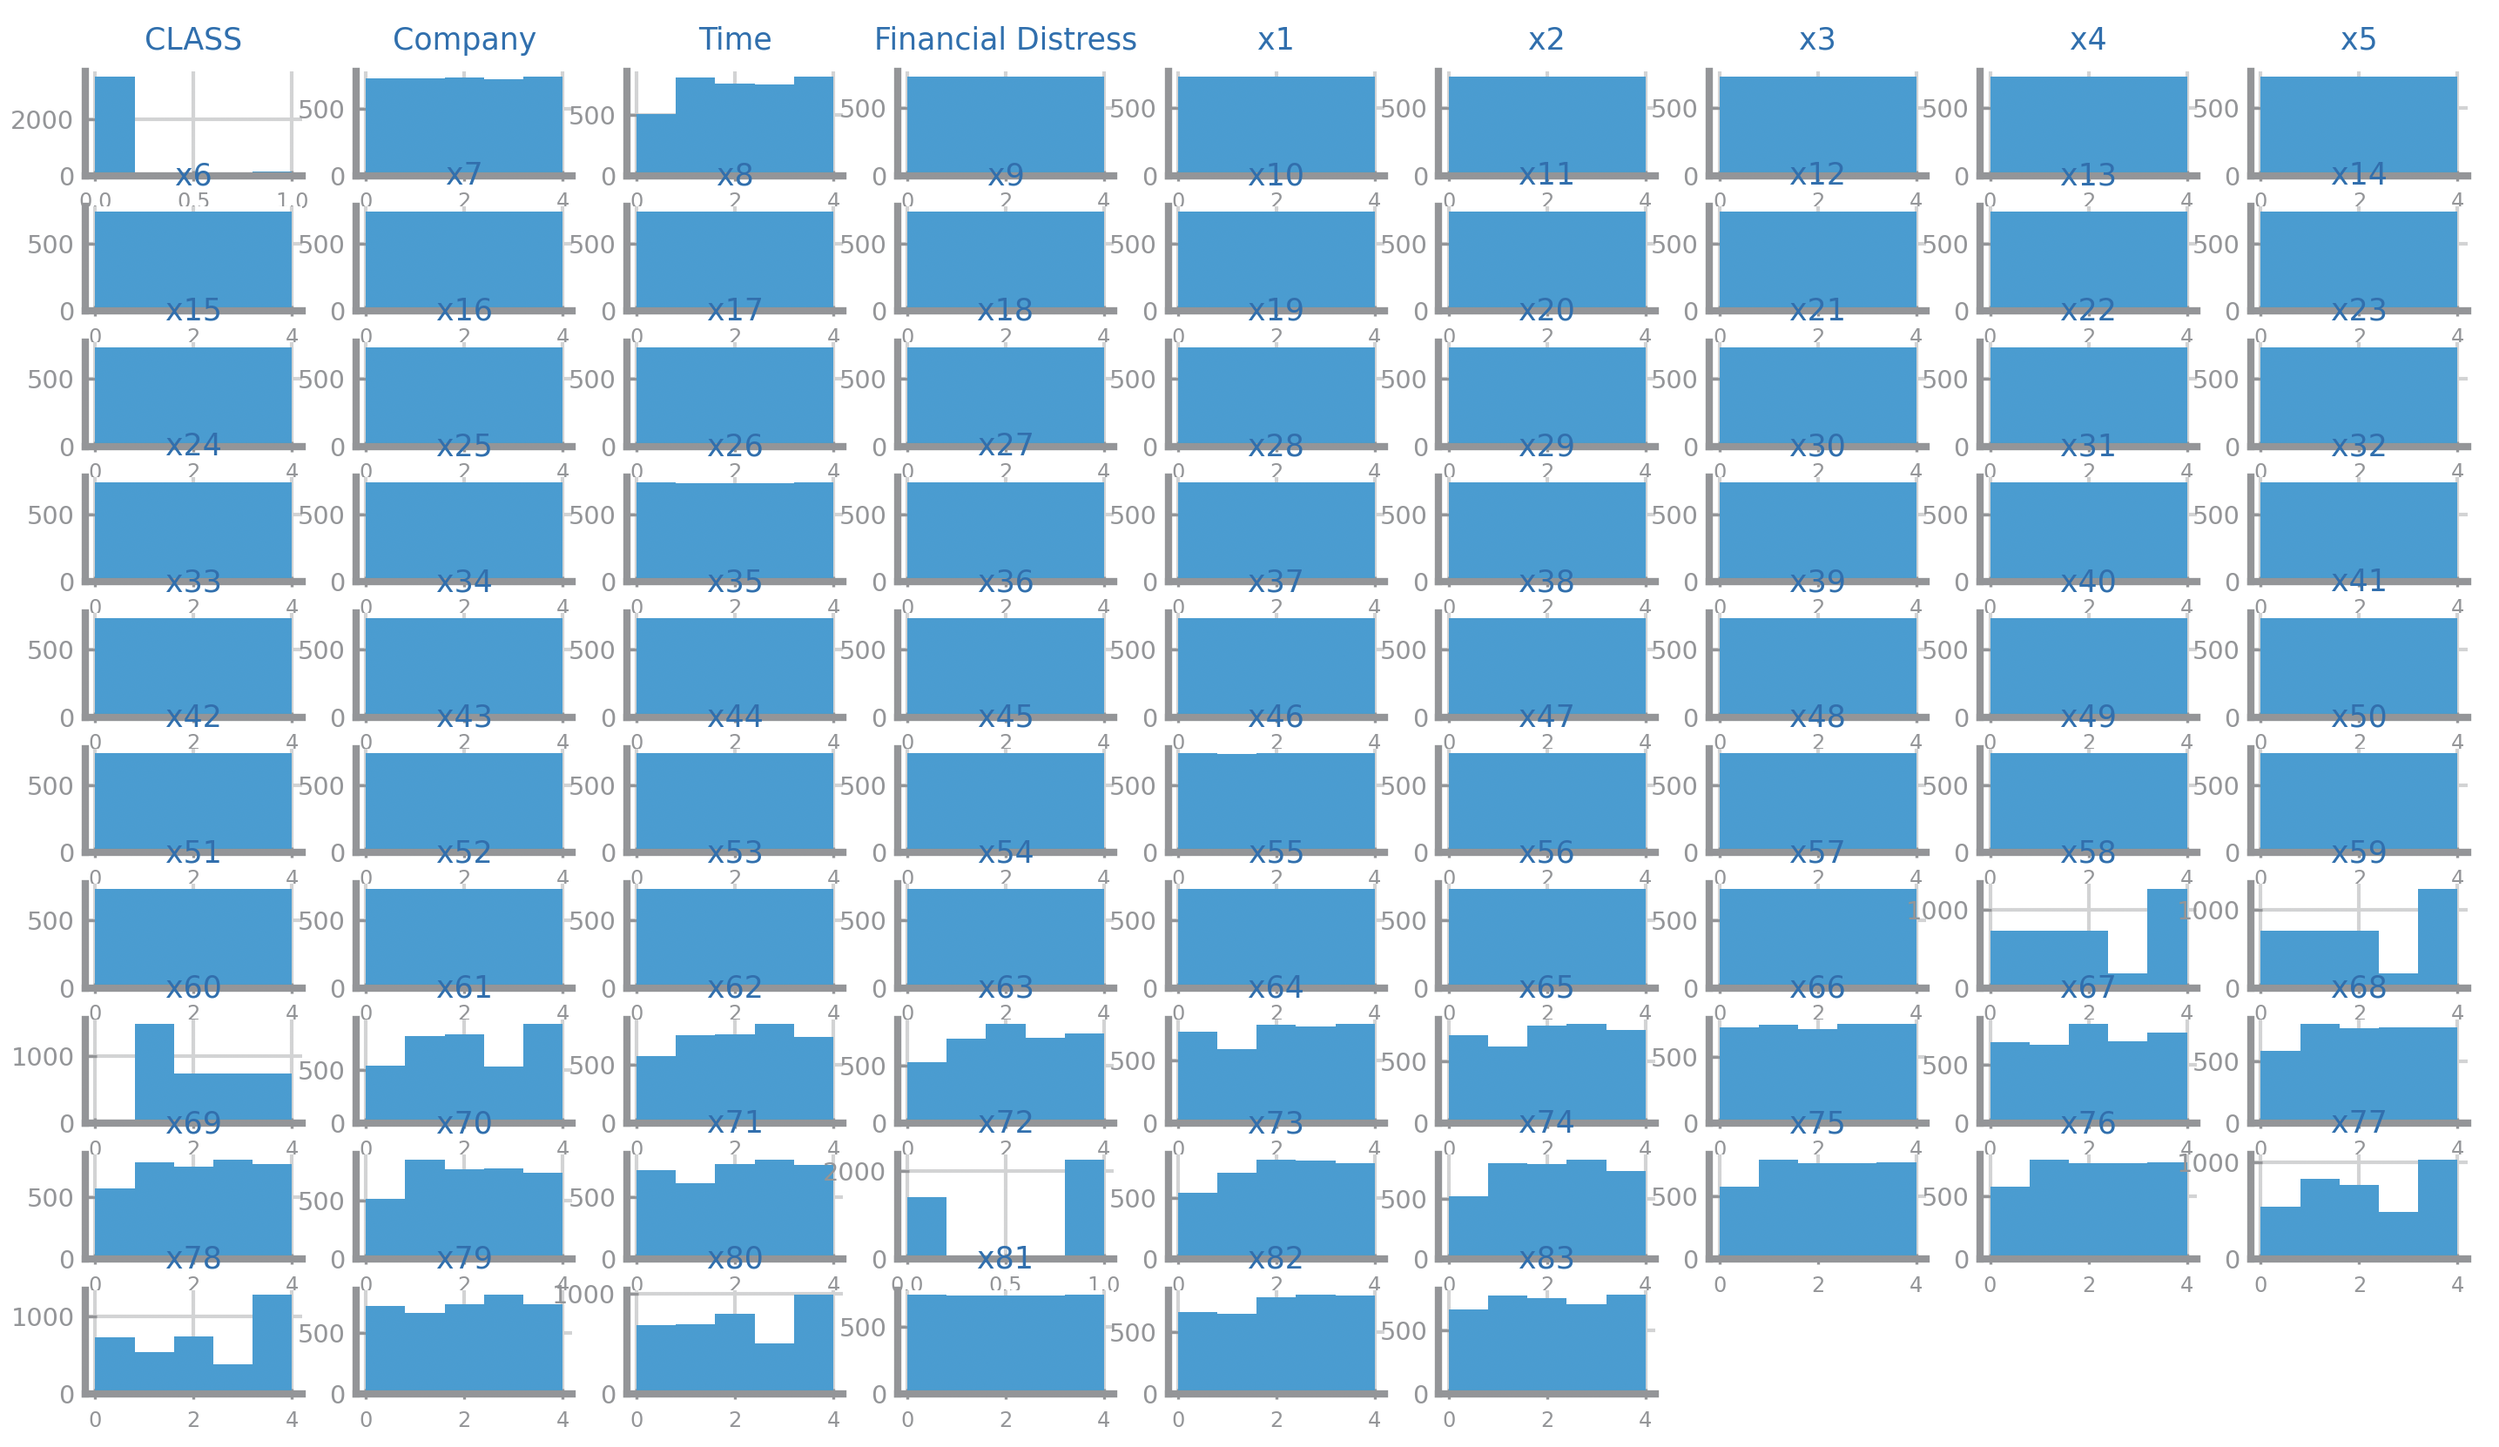
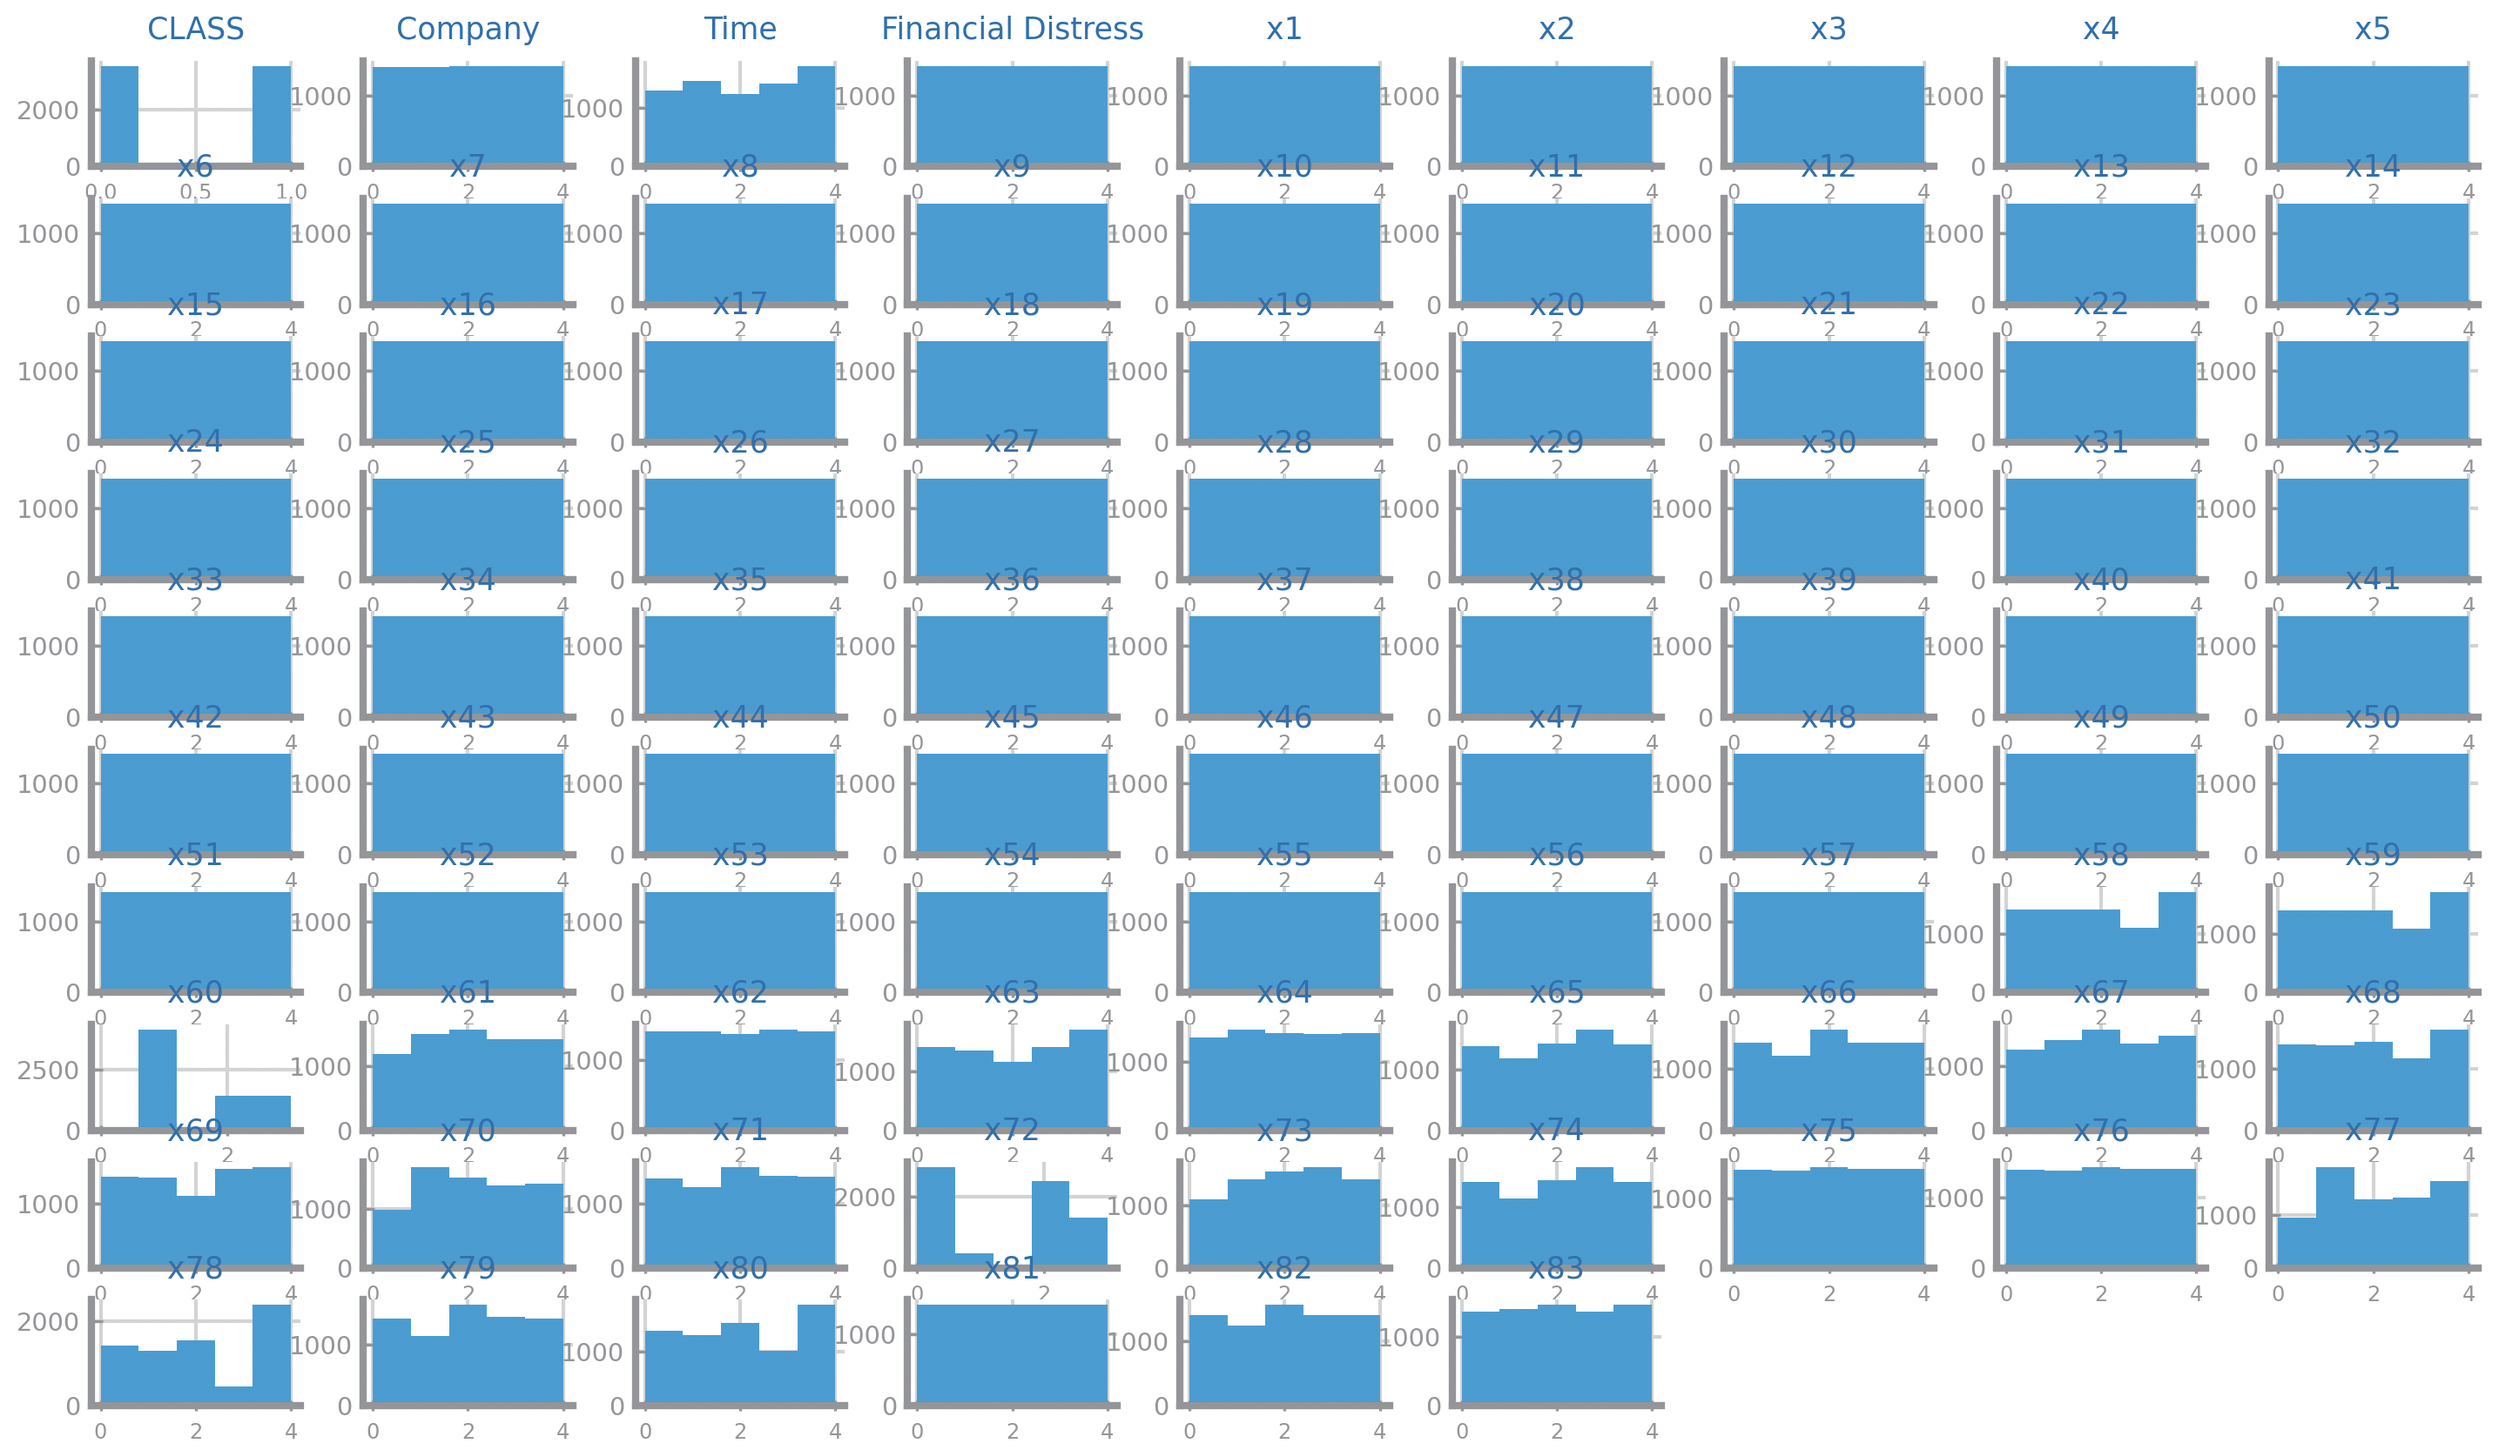
Agora sim

Changed region(s): [[0.0, 0.0, 0.9923, 0.9819], [0.062, 0.0, 0.093, 0.0307]]

diff --git a/Data_Preparation/processing_methodology_economical.py b/Data_Preparation/processing_methodology_economical.py
@@ -48,17 +48,17 @@ def evaluate_approach(
     return eval
 
 
-file_tag = "class_financial_distress_eq_width"
-filename = "./Data/class_financial_distress_eq_width.csv"
+file_tag = "class_financial_distress_eq_frequency"
+filename = "./Data/class_financial_distress_eq_frequency.csv"
 target = "CLASS"
 data: DataFrame = read_csv(filename, index_col=None, na_values="")
-train: DataFrame = read_csv("Data/train_data_eq_width_economical.csv")
-test: DataFrame = read_csv("Data/test_data_eq_width_economical.csv")
+train: DataFrame = read_csv("Data/train_data_eq_frequency_economical.csv")
+test: DataFrame = read_csv("Data/test_data_eq_frequency_economical.csv")
 
 figure()
 eval: dict[str, list] = evaluate_approach(train, test, target=target, metric="recall")
 plot_multibar_chart(
     ["NB", "KNN"], eval, title=f"{file_tag} evaluation", percentage=True
 )
-savefig(f"Data_Preparation/Images/{file_tag}_eval.png")
+savefig(f"Data_Preparation/Images/class_financial_distress_discretization/{file_tag}_eval.png")
 show()

diff --git a/Data_Preparation/processing_testing_economical.py b/Data_Preparation/processing_testing_economical.py
@@ -2,15 +2,15 @@ import pandas as pd
 from sklearn.model_selection import train_test_split
 
 # Load the dataset
-filename = "Data/class_financial_distress_eq_width.csv"  # Replace with your dataset's filename
+filename = "Data/class_financial_distress_eq_frequency.csv"  # Replace with your dataset's filename
 data = pd.read_csv(filename)
 
 # Split the data into 70% training and 30% testing
 train_data, test_data = train_test_split(data, test_size=0.3, random_state=42)
 
 # Save the splits to separate CSV files
-train_data.to_csv("Data/train_data_eq_width_economical.csv", index=False)
-test_data.to_csv("Data/test_data_eq_width_economical.csv", index=False)
+train_data.to_csv("Data/train_data_eq_frequency_economical.csv", index=False)
+test_data.to_csv("Data/test_data_eq_frequency_economical.csv", index=False)
 
 print("Data has been split and saved:")
 print("70% of data saved to 'train_data.csv'")

diff --git a/Data_Preparation/processing_scaling_economical.py b/Data_Preparation/processing_scaling_economical.py
@@ -26,7 +26,7 @@ df_minmax.to_csv(f"Data/{file}_scaled_minmax.csv", index=None)
 
 
 fig, axs = subplots(1, 1, figsize=(100, 10), squeeze=False)
-
+"""
 axs[0, 0].set_title("Z-score normalization")
 data.boxplot(ax=axs[0, 0])
 axs[0, 0].tick_params(axis='x', rotation=-45)
@@ -41,7 +41,7 @@ axs[0, 0].set_title("MinMax normalization")
 df_minmax.boxplot(ax=axs[0, 0])
 axs[0, 0].tick_params(axis='x', rotation=-45)
 show()
-
+"""
 
 
 

diff --git a/Data_Preparation/processing_balancing_economical.py b/Data_Preparation/processing_balancing_economical.py
@@ -5,7 +5,7 @@ from numpy import ndarray
 from pandas import Series
 from imblearn.over_sampling import SMOTE
 
-filename = "./Data/class_financial_distress.csv"
+filename = "./Data/class_financial_distress_scaled_zscore.csv"
 file = "class_financial_distress"
 file_tag = "class_financial_distress_class_balance"
 target = "CLASS"

diff --git a/Data_Preparation/processing_discretization_economical.py b/Data_Preparation/processing_discretization_economical.py
@@ -4,7 +4,7 @@ from sklearn.preprocessing import KBinsDiscretizer
 from pandas import concat
 from matplotlib.pyplot import subplots, show, savefig
 
-filename = "./Data/class_financial_distress.csv"
+filename = "./Data/class_financial_distress_smote.csv"
 file = "class_financial_distress"
 
 data: DataFrame = read_csv(
